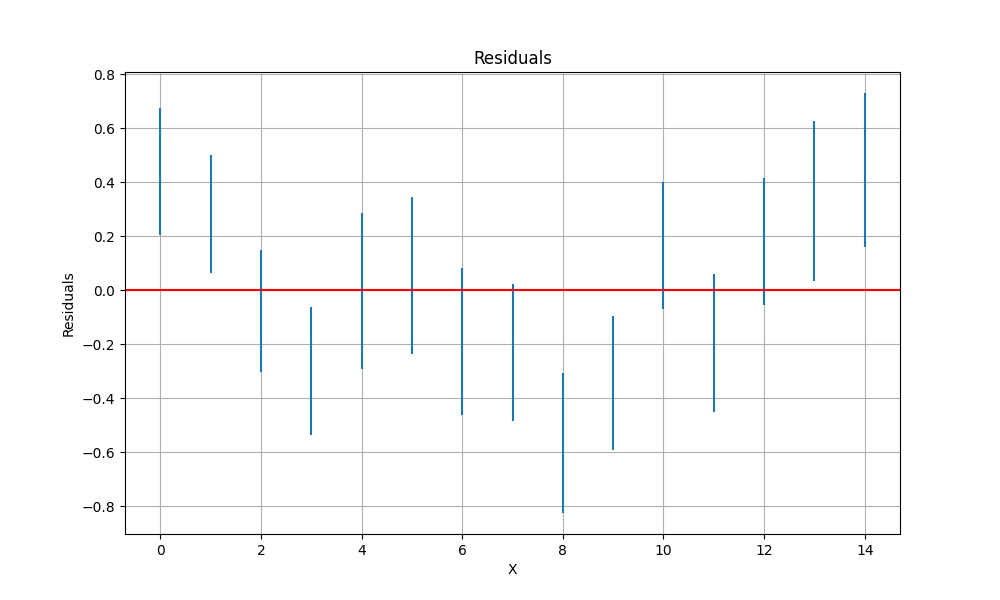
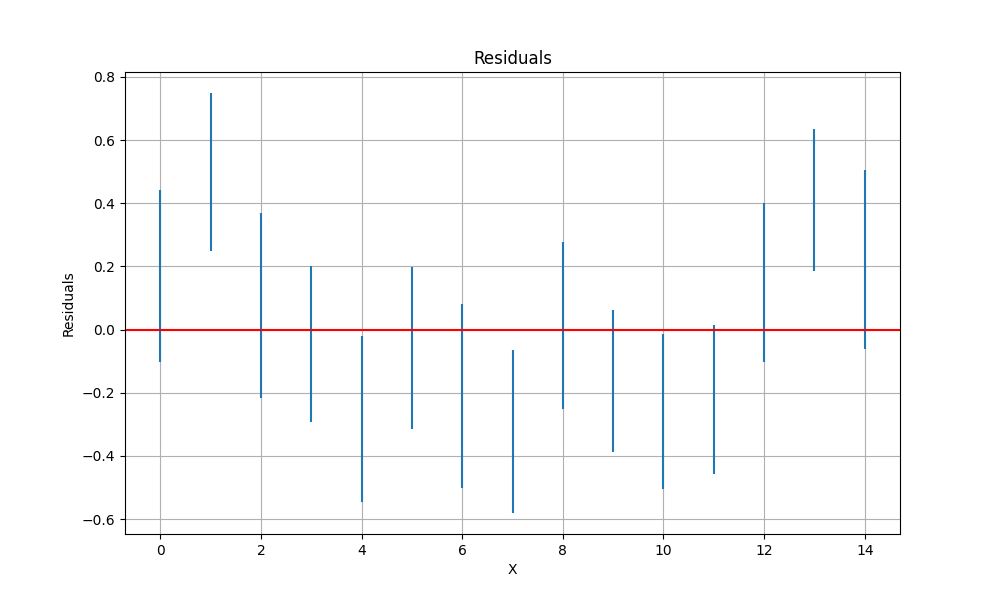
type annotation for generate script

diff --git a/generate_fake_data.py b/generate_fake_data.py
@@ -16,19 +16,28 @@ Output:
 - CSV includes header row and uses comma as delimiter
 """
 
+from typing import Final
 import numpy as np
+from numpy.typing import NDArray
 
-n = 15
-x = np.arange(n, dtype=float)
-dx = np.random.normal(loc=0.1, scale=0.01, size=n)
+# Type alias for clarity
+FloatArray = NDArray[np.float64]
+
+# Constants
+n: Final[int] = 15
+OUTPUT_FILE: Final[str] = "data.csv"
+
+# Generate data
+x: FloatArray = np.arange(n, dtype=np.float64)
+dx: FloatArray = np.random.normal(loc=0.1, scale=0.01, size=n)
 dx = np.clip(dx, 0, None)  # Ensure all values are positive
-y = 2.0 * x + 0.01 * x**2 + 0.2 * (np.random.randn(n))
-dy = np.random.normal(loc=0.15, scale=0.025, size=n)
+y: FloatArray = 2.0 * x + 0.01 * x**2 + 0.1 * (np.random.randn(n))
+dy: FloatArray = np.random.normal(loc=0.15, scale=0.025, size=n)
 dy = np.clip(dy, 0, None)  # Ensure all values are positive
 
 # Save to CSV
 np.savetxt(
-    "data.csv",
+    OUTPUT_FILE,
     np.column_stack([x, dx, y, dy]),
     delimiter=",",
     header="x,dx,y,dy",

diff --git a/README.md b/README.md
@@ -56,18 +56,18 @@ Running the script with the provided example data will produce the following out
 ```
 Regression Results:
 -----------------
-Slope: 2.162649 ± 0.018603
-Intercept: -0.521548 ± 0.147845
+Slope: 2.147160 ± 0.016329
+Intercept: -0.359677 ± 0.137575
 
 Covariance matrix:
- 2.222766e-04 -1.474776e-03
--1.474776e-03  1.403852e-02
-Pearson's Correlation coefficient: -0.536201
+ 2.369639e-04 -1.720251e-03
+-1.720251e-03  1.682074e-02
+Pearson's Correlation coefficient: -0.765758
 
-Chi-square: 20.241101
+Chi-square: 14.627831
 Degrees of freedom: 13
-Reduced chi-square: 1.557008
-P-value: 0.089359
+Reduced chi-square: 1.125218
+P-value: 0.331159
 ```
 These results will be saved as a text file. Three figures will also be saved, showing the data points with error bars and the best-fit line, residuals plot, and parameter correlation ellipses for the 1σ, 2σ, and 3σ confidence levels.
 
